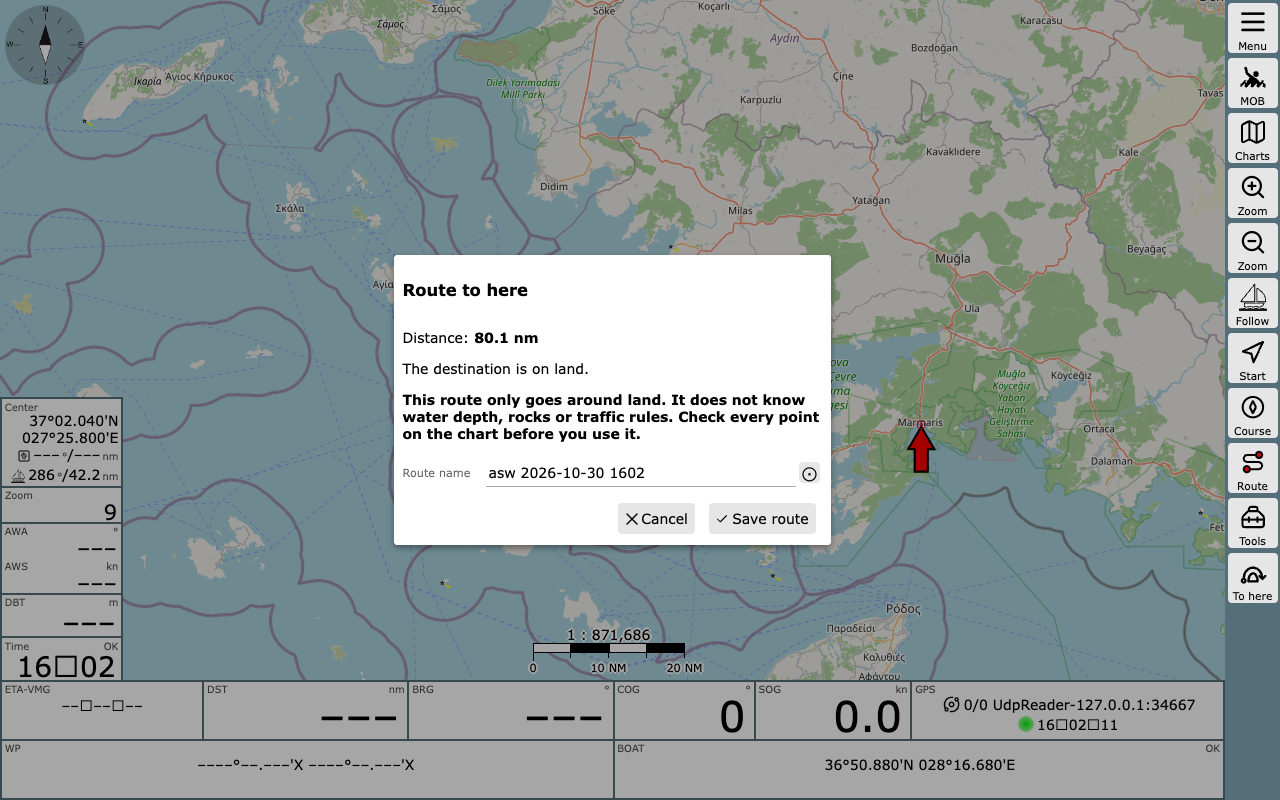
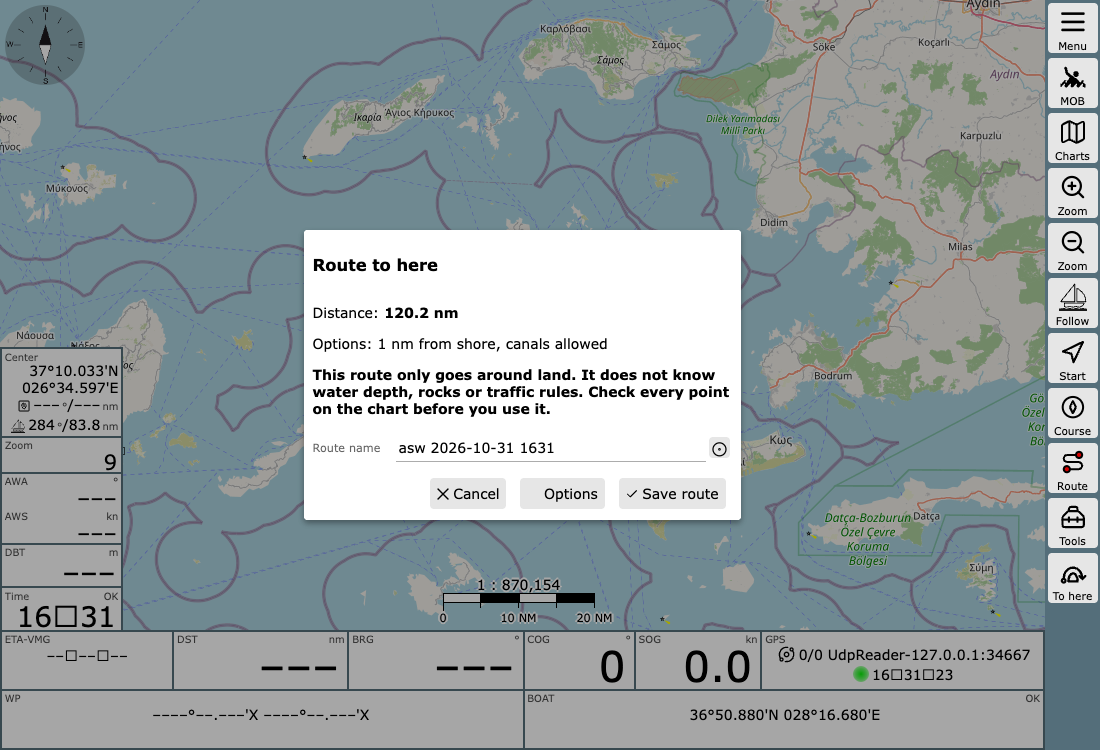
Route to here: one press makes the route, Options in the result, download goes on to the route
- To here makes the route at once with the remembered options; the options dialog opens from an Options button in the result or after a failed route.
- Allow Arctic removed.
- After Download map data the dialog shows the progress and makes the route when asw is ready.
- Saved route: a toast instead of a dialog.
- The distance is the great-circle length of the saved points, as AvNav computes it.
- On-land notes say what to do.

diff --git a/asw/plugin.py b/asw/plugin.py
@@ -29,7 +29,7 @@ from aswplugin.route import DEFAULT_NAME, FORBIDDEN, LegError, call_legs, end_po
 GRAPH_MB = 1430
 MISSING = "Map data is not installed. On the chart page press To here, then Download map data: about 540 MB, use Wi-Fi."
 AVNAV_STATUS = {"missing": "INACTIVE", "downloading": "STARTED", "starting": "STARTED", "ready": "NMEA", "error": "ERROR"}
-DEFAULT_OPTIONS = {"shore_buffer": 0.0, "canals": True, "arctic": False}
+DEFAULT_OPTIONS = {"shore_buffer": 0.0, "canals": True}
 NO_ROUTE = "No route to save. Make a route first."
 REPLACED = "A newer route was made, maybe on another device. Make this route again."
 ANSI = re.compile(r"\x1b\[[0-9;]*m")
@@ -248,16 +248,16 @@ class Plugin:
             return {"ok": False, "error": "asw is not ready: %s" % self.status["detail"]}
         try:
             d = json.loads(data)
-            sb, canals, arctic = d.get("shore_buffer", 0), d.get("canals", True), d.get("arctic", False)
+            sb, canals = d.get("shore_buffer", 0), d.get("canals", True)
             points = end_points(d["from"], d["to"])
-            valid = isinstance(canals, bool) and isinstance(arctic, bool) \
+            valid = isinstance(canals, bool) \
                 and not isinstance(sb, bool) and 0 <= float(sb) <= 5 \
                 and all(-90 <= p["lat"] <= 90 and -180 <= p["lon"] <= 180 for p in points)
         except (KeyError, TypeError, ValueError, AttributeError):
             valid = False
         if not valid:
             return {"ok": False, "error": "Invalid route request."}
-        query = {"shore_buffer": float(sb), "canals": str(canals).lower(), "arctic": str(arctic).lower()}
+        query = {"shore_buffer": float(sb), "canals": str(canals).lower()}
         port, key = self.port, self.key
 
         def get(a, b):
@@ -317,7 +317,7 @@ class Plugin:
             o = {k: d.get(k, v) for k, v in DEFAULT_OPTIONS.items()}
         except (ValueError, AttributeError):
             return {"ok": False, "error": "Invalid options."}
-        if not (isinstance(o["canals"], bool) and isinstance(o["arctic"], bool)
+        if not (isinstance(o["canals"], bool)
                 and isinstance(o["shore_buffer"], (int, float)) and not isinstance(o["shore_buffer"], bool)
                 and 0 <= o["shore_buffer"] <= 5):
             return {"ok": False, "error": "Invalid options."}

diff --git a/tests/selfcheck.py b/tests/selfcheck.py
@@ -1,6 +1,6 @@
 import os, sys, tempfile, time, xml.etree.ElementTree as ET
 sys.path.insert(0, os.path.join(os.path.dirname(__file__), "..", "asw"))
-from aswplugin.route import join_legs, route_gpx, call_legs, LegError, safe_name, end_points, DEFAULT_NAME
+from aswplugin.route import join_legs, length_nm, route_gpx, call_legs, LegError, safe_name, end_points, DEFAULT_NAME
 from aswplugin.install import binary_asset, release_url, preflight, check_system, download_stopped, cleanup_stale, download_binary, mem_total
 
 wps = [{"lat": 36.0, "lon": 28.0, "name": n} for n in "ABC"]
@@ -14,7 +14,11 @@ def test_join_two_legs():
     pts, nm, land = join_legs(wps, [ab, bc])
     assert [p["name"] for p in pts] == ["A", "asw 1", "B", "asw 2", "asw 3", "C"]
     assert pts[1] == {"lat": 36.05, "lon": 28.05, "name": "asw 1"}
-    assert nm == round(ab["distance_nm"] + bc["distance_nm"], 1) and land == []
+    assert nm == round(length_nm(pts), 1) == 15.4 and land == []  # the points, not the legs' distance_nm (13.55)
+
+def test_length_like_avnav():  # AvNav: geodesy LatLonSpherical, R 6371 km, 1852 m per nm
+    assert round(length_nm([{"lat": 0, "lon": 0}, {"lat": 1, "lon": 0}]), 4) == 60.0405
+    assert length_nm([{"lat": 36, "lon": 28}]) == 0
 
 def test_land_waypoints_named():
     a = dict(ab, land_legs=[0]); b = dict(bc, land_legs=[2])
@@ -31,7 +35,7 @@ def test_one_leg():
     assert ends[1] == {"lat": 36.2, "lon": 28.2, "name": "Destination"}
     pts, nm, land = join_legs(ends, [ad])
     assert [p["name"] for p in pts] == ["Start", "asw 1", "asw 2", "Destination"]
-    assert nm == 13.6 and land == []
+    assert nm == 15.4 and land == []
     assert join_legs(ends, [dict(ad, land_legs=[0])])[2] == ["Start"]
     assert join_legs(ends, [dict(ad, land_legs=[2])])[2] == ["Destination"]
     assert join_legs(ends, [dict(ad, land_legs=[2, 0])])[2] == ["Start", "Destination"]

diff --git a/asw/aswplugin/route.py b/asw/aswplugin/route.py
@@ -1,4 +1,5 @@
 """Join asw /route legs into one point list and write it as GPX."""
+from math import asin, cos, radians, sin, sqrt
 from xml.sax.saxutils import escape, quoteattr
 
 
@@ -35,10 +36,9 @@ def end_points(start, dest):
 def join_legs(waypoints, legs):
     """legs[i] is the asw /route JSON for waypoints[i] -> waypoints[i+1]."""
     points = [dict(waypoints[0])]
-    nm, land, added = 0.0, [], 0
+    land, added = [], 0
     for i, leg in enumerate(legs):
         coords = leg["geometry"]["coordinates"]
-        nm += leg["distance_nm"]
         for j in leg.get("land_legs", []):
             for hit, wp in ((j == 0, waypoints[i]), (j == len(coords) - 2, waypoints[i + 1])):
                 if hit and wp["name"] not in land:
@@ -48,7 +48,17 @@ def join_legs(waypoints, legs):
             points.append({"lat": lat, "lon": lon, "name": "asw %d" % added})
         points.append(dict(waypoints[i + 1]))
     land.sort(key=lambda n: [w["name"] for w in waypoints].index(n))
-    return points, round(nm, 1), land
+    return points, round(length_nm(points), 1), land
+
+
+def length_nm(points):
+    """Great-circle length as AvNav shows it (geodesy LatLonSpherical, R 6371 km), so both say the same number.
+    asw's distance_nm leaves out a piece over land at the ends."""
+    def leg(a, b):
+        p1, p2 = radians(a["lat"]), radians(b["lat"])
+        h = sin((p2 - p1) / 2) ** 2 + cos(p1) * cos(p2) * sin(radians(b["lon"] - a["lon"]) / 2) ** 2
+        return 2 * 6371000 * asin(sqrt(h)) / 1852
+    return sum(leg(a, b) for a, b in zip(points, points[1:]))
 
 
 def route_gpx(name, points):

diff --git a/README.md b/README.md
@@ -16,14 +16,14 @@ The idea comes from [avnav#435](https://github.com/wellenvogel/avnav/issues/435)
 - Linux, arm64 or x86_64. For a Raspberry Pi this means Pi 4 or 5 with a 64-bit OS.
 - 2 GB RAM or more. With less RAM the plugin works but routing is slow.
 - About 2.1 GB free disk space. The download is about 540 MB and it unpacks to about 1.43 GB.
-- The plugin downloads asw 0.11.0. This version is not released yet, so the first plugin release waits for it.
+- The plugin downloads asw 0.11.0.
 
 ## Install
 
 1. Download `avnav-asw-<version>.zip` from the releases page.
 2. In AvNav open the Plugins page and upload the zip.
 3. Restart AvNav if it asks for it. The plugin status says that the map data is missing.
-4. Connect to Wi-Fi, open the chart page, press "To here" and then "Download map data". The plugin downloads the asw program and the map data, and the status shows the progress. The download starts only when you press the button.
+4. Connect to Wi-Fi, open the chart page, press "To here" and then "Download map data". The plugin downloads the asw program and the map data and shows the progress. When the map data is ready, it makes the route. The download starts only when you press the button.
 
 The files are stored in the `asw` folder of the AvNav data directory, so they stay when you update the plugin.
 
@@ -31,8 +31,8 @@ The files are stored in the `asw` folder of the AvNav data directory, so they st
 
 1. Move the chart so that the crosshair is on the destination.
 2. Press "To here". The boat position from GPS is the start. Without a GPS fix the plugin cannot make a route.
-3. Choose the distance from shore (0 to 5 nm), whether to avoid canals and whether to allow the Arctic, then press "Make route".
-4. Read the result: the distance in nautical miles, a note if the start or the destination is on land, and the warning.
+3. Read the result: the distance in nautical miles, the options, a note if the start or the destination is on land, and the warning.
+4. To change the distance from shore (0 to 5 nm) or to avoid canals, press "Options" and then "Make route". The plugin remembers the options for the next route.
 5. Change the route name if you want, and press "Save route". If a route with this name exists, the plugin asks before it replaces it.
 6. Open the Routes page, check the route on the chart, and use it like any other route.
 

diff --git a/CHANGELOG.md b/CHANGELOG.md
@@ -2,5 +2,7 @@
 
 ## 0.1.0 (unreleased)
 
-- "Route to here" button on the AvNav chart page: a route over water from the boat to the crosshair, saved after a warning.
-- Downloads the asw program and the compressed map data when you press the button. Needs asw 0.11.0, so this release waits for it.
+- "Route to here" button on the AvNav chart page: one press makes a route over water from the boat to the crosshair with the options from last time. The route is saved after a warning.
+- Options: distance from shore and avoid canals.
+- Downloads the asw program and the compressed map data (asw 0.11.0) when you press the button, shows the progress, and makes the route when the map data is ready.
+- The distance is measured as AvNav measures it, so both show the same number.
